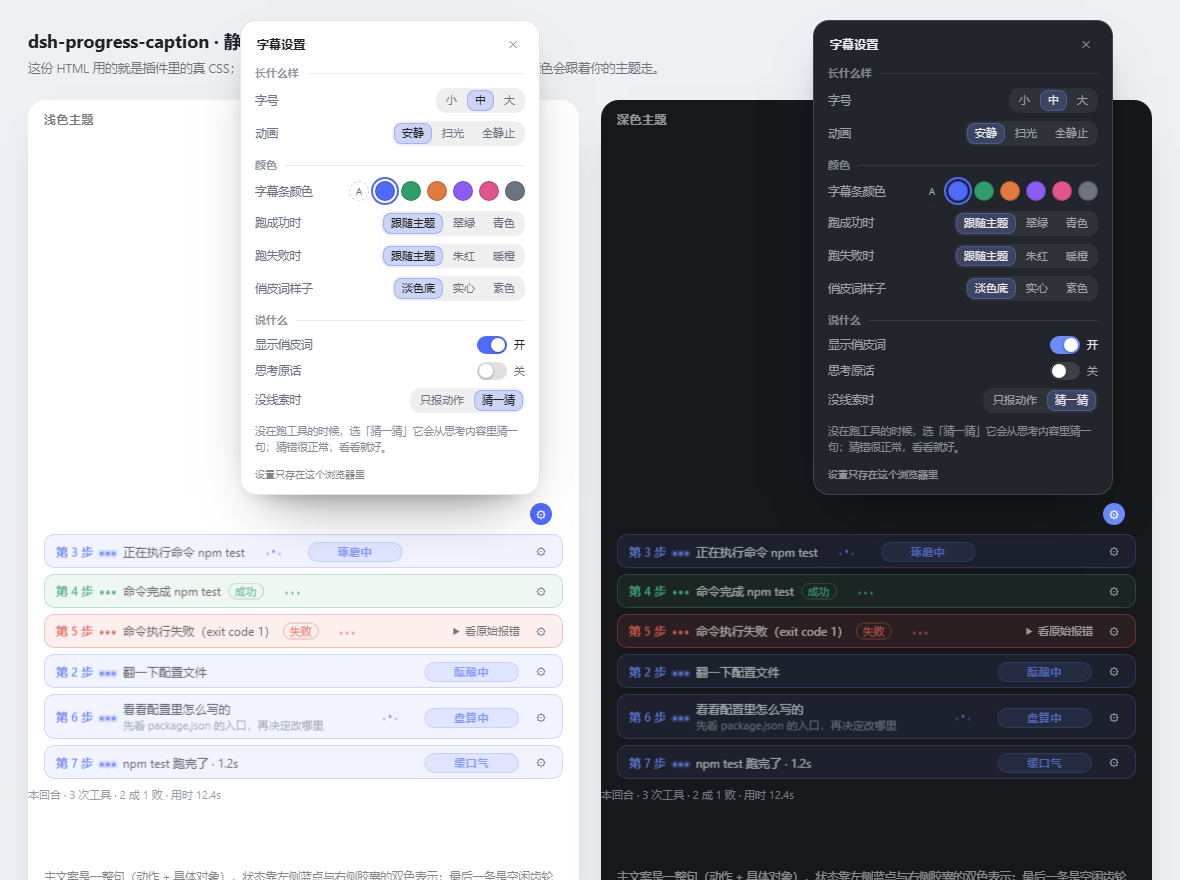
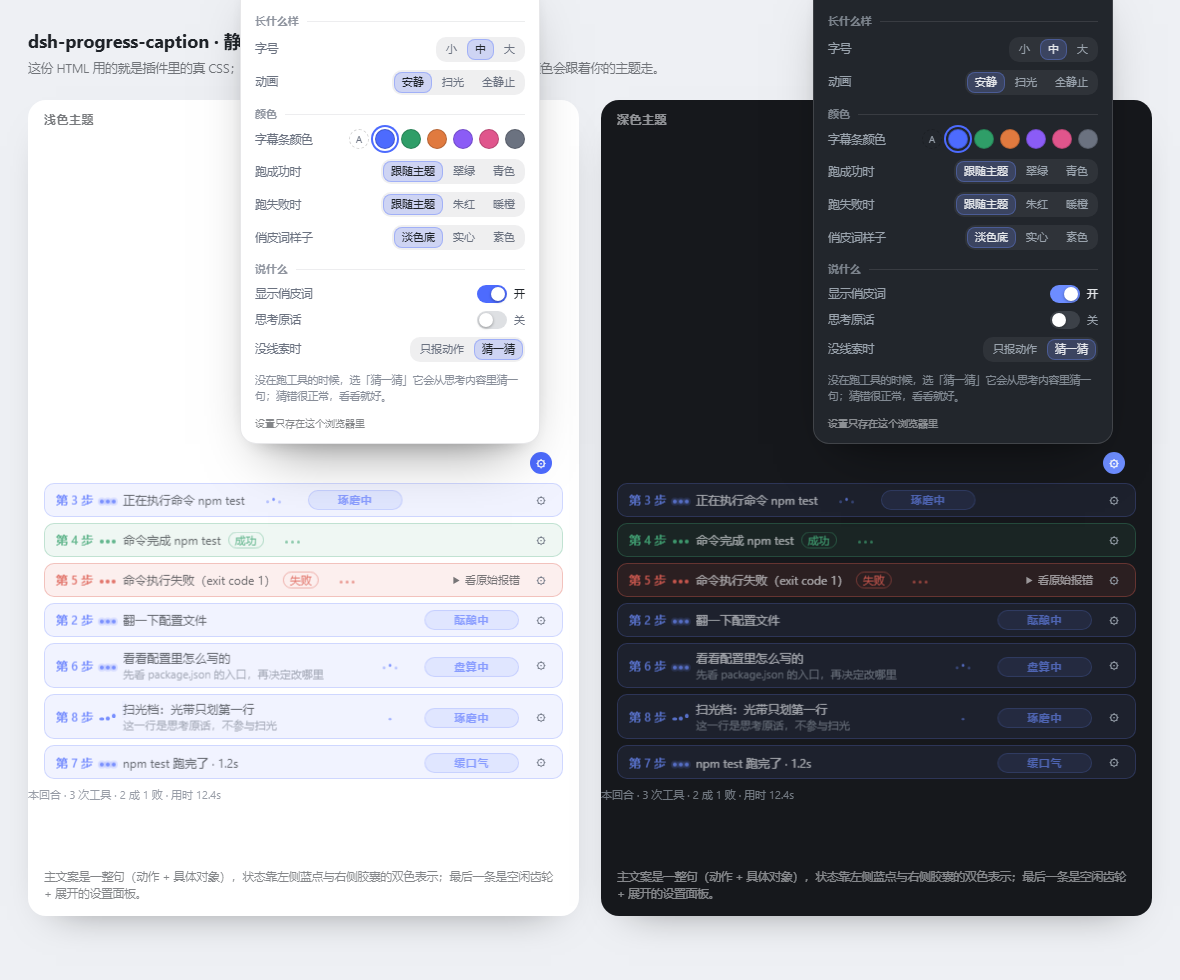
feat: 扫光改为只扫第一行、方向从左到右，光带收窄到 40%

Changed region(s): [[0.0305, 0.0, 0.9763, 1.0], [0.9458, 0.092, 0.9763, 0.1227]]

diff --git a/client.js b/client.js
@@ -1622,7 +1622,29 @@ window.__ModuleLoader__.load({
    只在「安静 / 扫光」两档挂动画，「全静止」档连这个也关掉。 */
 .pgc-anim-calm .pgc-label,
 .pgc-anim-sweep .pgc-label { animation: pgc-swap .16s cubic-bezier(.23, 1, .32, 1) both; }
-.pgc-anim-sweep .pgc-label::after { content: ''; position: absolute; inset: 0; pointer-events: none; background-image: linear-gradient(100deg, transparent 38%, color-mix(in srgb, var(--pgc-accent) 28%, transparent) 50%, transparent 62%); background-size: 260% 100%; background-repeat: no-repeat; animation: pgc-sweep 2.2s linear infinite; }
+/* 扫光：只扫「第一行主文案」，不扫整条。
+   - 光带是 .pgc-label 自己身上的 ::after，父级本来就 overflow: hidden，
+     所以它永远出不了这一行，也压不到下面那行副行（.pgc-sub）；
+   - 宽度只占这一行的 40%，看到的是一道窄光划过，而不是整条底色一起亮；
+   - 方向严格从左到右：translateX 从 -100%（整道藏在左边界外）走到 350%（完全划出右边界）；
+   - 只动 transform，不改宽高、不改 background-size，不起重排。 */
+.pgc-anim-sweep .pgc-label::after {
+  content: '';
+  position: absolute;
+  top: 0; bottom: 0; left: 0;
+  width: 40%;
+  pointer-events: none;
+  background-image: linear-gradient(
+    90deg,
+    transparent 0%,
+    color-mix(in srgb, var(--pgc-accent) 26%, transparent) 50%,
+    transparent 100%
+  );
+  transform: translateX(-100%);
+  animation: pgc-sweep 2.2s cubic-bezier(.45, .05, .55, .95) infinite;
+}
+/* 第二行（思考原话）不扫：这里显式关掉，免得以后有人给 .pgc-sub 加同名规则时被顺带扫到。 */
+.pgc-anim-sweep .pgc-sub::after { content: none; animation: none; }
 /* 俏皮词：不用斜体（中文被强行倾斜很难看），固定占最右一格。
    宽度写死 6.6em：词最短 3 字最长 5 字，写死之后换词时右边这块纹丝不动，
    左边的状态文字就不会被一会儿推左一会儿推右（这也是「闪」的一个来源）。 */
@@ -1812,7 +1834,12 @@ window.__ModuleLoader__.load({
   8% { transform: translateY(0) scale(1.28, .72); }
   30% { transform: translateY(-3px) scale(.92, 1.12); }
 }
-@keyframes pgc-sweep { 0% { background-position: 120% 0; } 100% { background-position: -60% 0; } }
+/* 扫光关键帧：光带贴着第一行的左边界外面出发，一路划到右边界外面。
+   -100% 时这道光完全在裁剪框左侧看不见；350% 时它已整条越过右边界（50% 是一半宽度在框内）。 */
+@keyframes pgc-sweep {
+  0% { transform: translateX(-100%); }
+  100% { transform: translateX(350%); }
+}
 /* 预留位上的三点循环（Claude 那种）：三颗点共用一条 keyframes，
    靠 nth-child 的负 animation-delay 错开约三分之一周期，看着像排队跳。
    只动 transform 和 opacity —— 都是合成层属性，不改宽高、不触发重排；

diff --git a/README.md b/README.md
@@ -118,7 +118,7 @@ v4.1-flash 这类模型思考极快，字是一串串来的。如果字幕逐字
 | 选项 | 表现 |
 | --- | --- |
 | 安静（默认） | 左侧三颗小圆点依次轻轻呼吸——只有光晕大小在变，透明度与位移都不动，所以不会「闪」 |
-| 扫光 | 三颗点排着队起跳 + 一道渐变扫过主文案，只动 `transform` / `background-position`，不推挤布局 |
+| 扫光 | 三颗点排着队起跳 + 一道窄光从**左往右**划过第一行主文案（只划第一行，第二行的思考原话不扫），只动 `transform`，不推挤布局 |
 | 全静止 | 什么都不动，只留一颗点当句号 |
 
 为什么默认是「安静」：思考时文字本来就在飞快地长，字幕条再跟着流光、再跟着跳，两个动的东西
